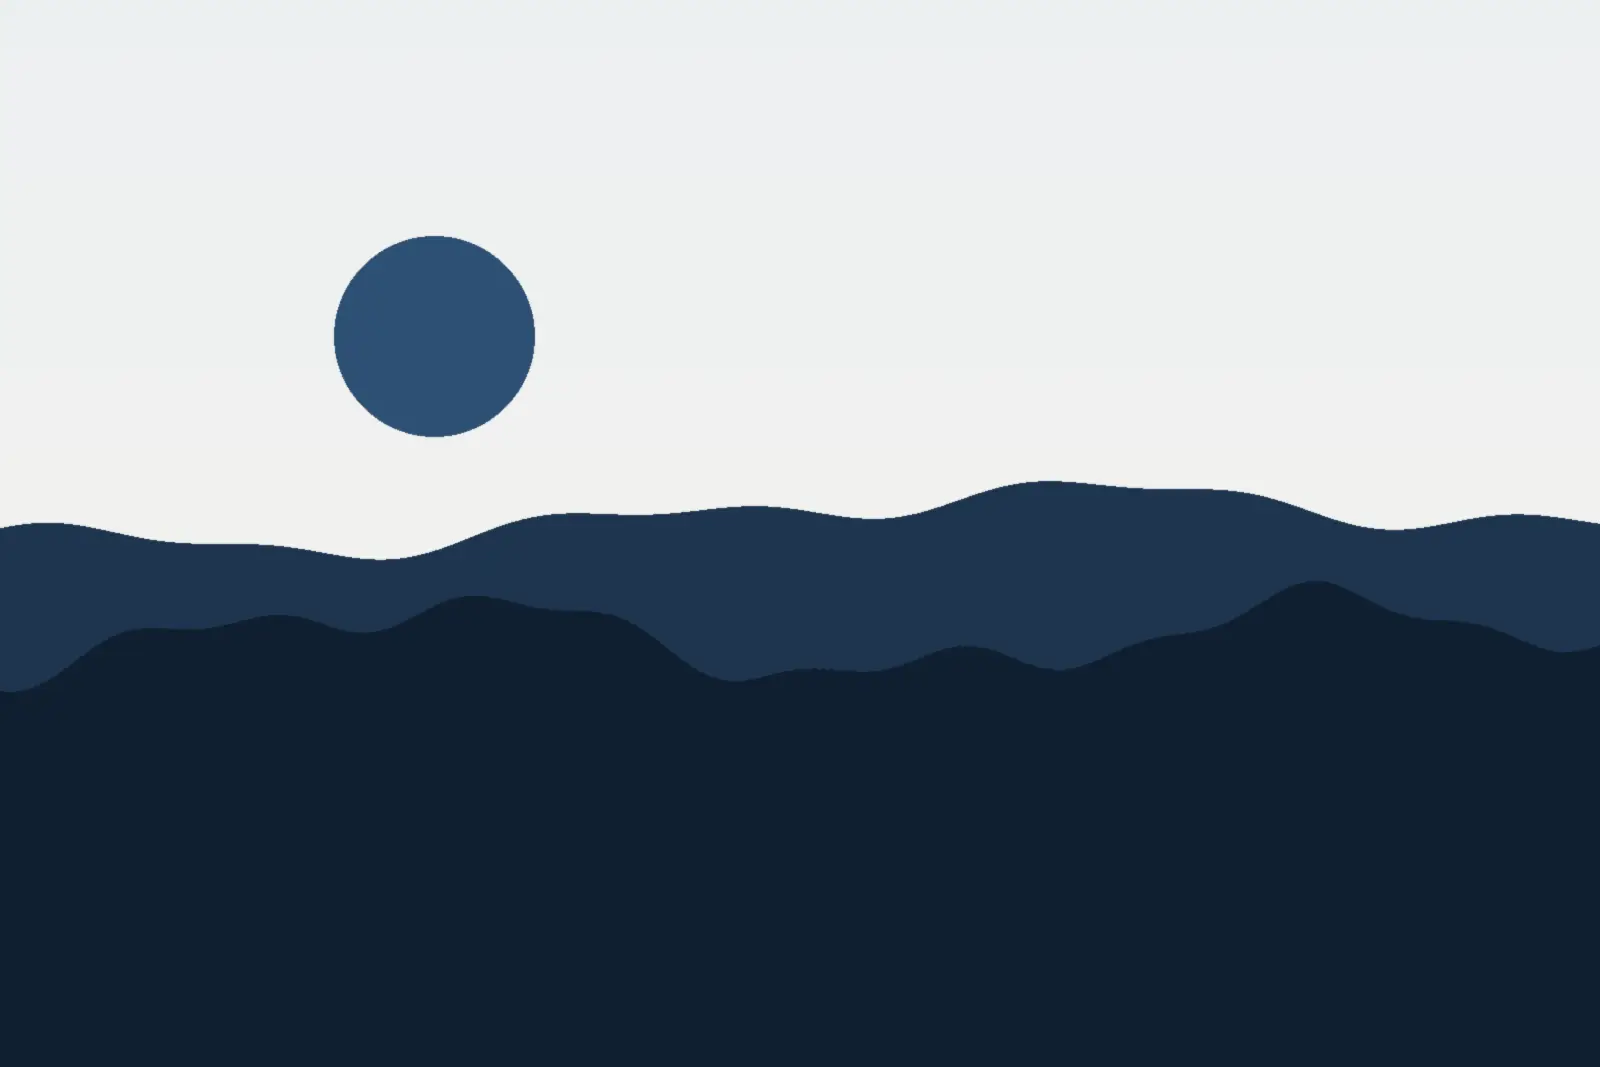
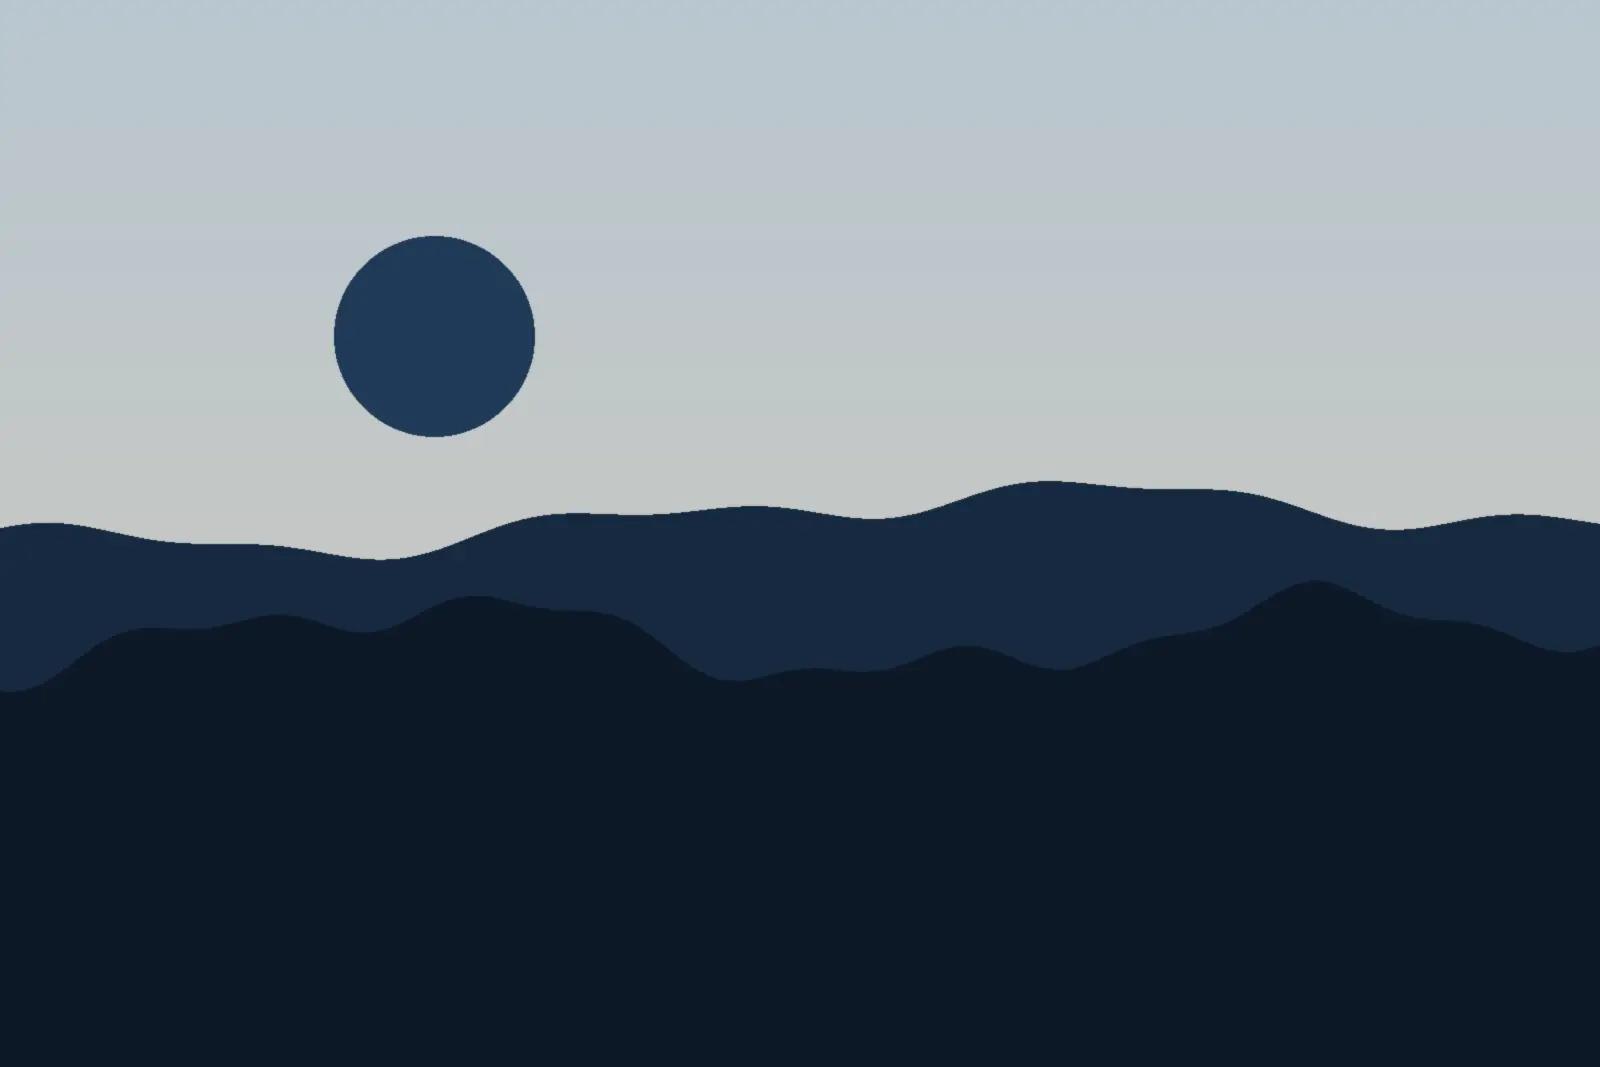
fix(a11y): ilustración del hero más oscura para que el antetítulo blanco llegue a 4,5:1 (A3/contrast_manual)

diff --git a/berawa/build/content_hostal_acuarela_burgos.py b/berawa/build/content_hostal_acuarela_burgos.py
@@ -8,7 +8,7 @@ RD={
 'fr':['29 chambres extérieures décorées de tableaux-têtes de lit de la série Mantón, d\'Ana Sanz. Toutes avec douche hydromassage, musique d\'ambiance, ordinateur portable et WiFi haut débit gratuit.','Penthouse de luxe avec terrasse privée, entièrement équipé.'],
 'de':['29 Außenzimmer mit Kopfteil-Bildern der Serie Mantón von Ana Sanz. Alle mit Hydromassage-Dusche, Musikanlage, Laptop und kostenlosem Highspeed-WLAN.','Luxus-Penthouse mit privater Terrasse, voll ausgestattet.']}
 ART={
-'hero':('waves',9501,['#ecf0f2','#f6f3ec','#2d4f73','#1e3550','#101f30']),
+'hero':('waves',9501,['#b9c6cf','#cfc8bb','#1f3a58','#16293f','#0c1826']),
 'intro':('arches',9502,['#eef0ec','#e6b37e','#2d4f73','#1e3550','#101f30']),
 'r1':('skyline',9511,['#1e3550','#e5a86b','#f4d6a6','#7a3e5a','#633149','#401f30']),
 'r2':('hills',9512,['#eceff2','#f1e6d0','#e3b273','#9fb2c4','#6f88a0','#4a627a']),
